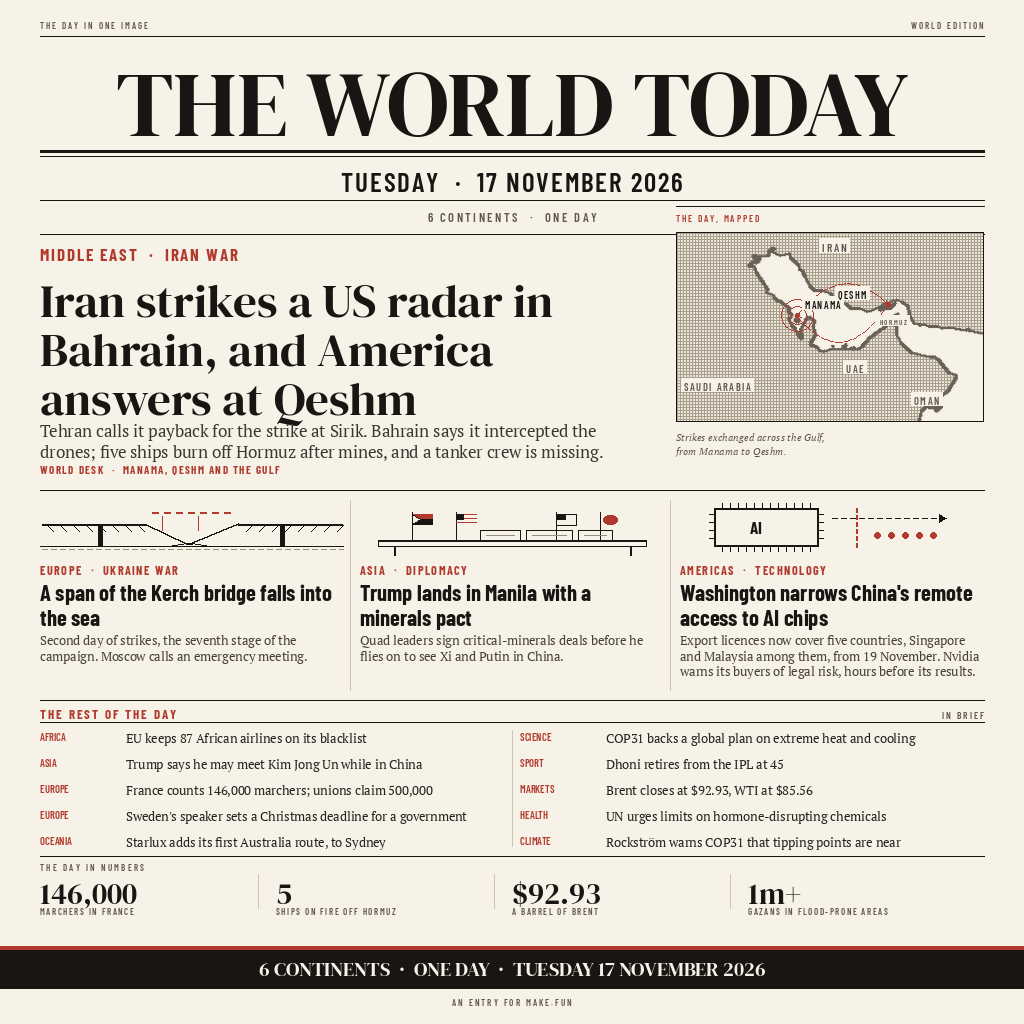
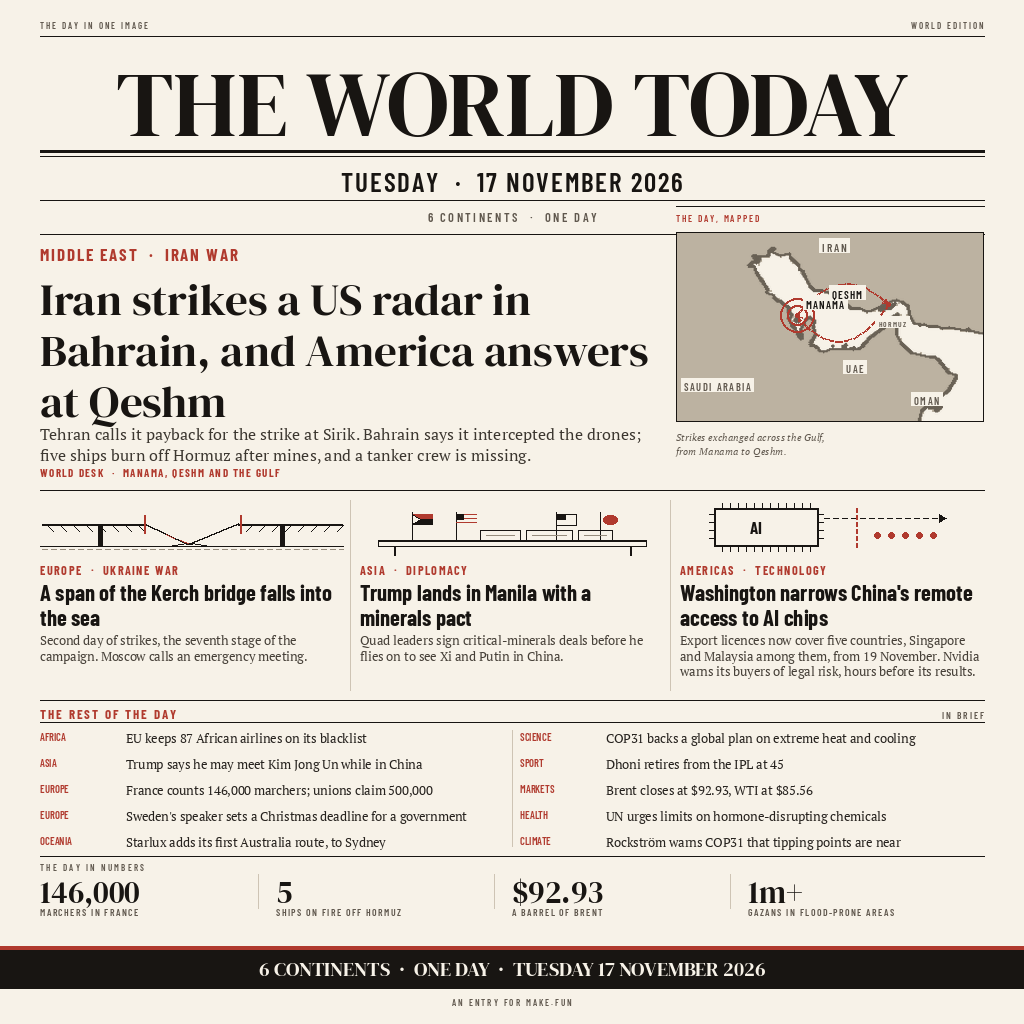
Refine leading, map tone and stat captions

diff --git a/gen.py b/gen.py
@@ -184,15 +184,15 @@ def gulf_panel(w, h):
 
     img = Image.new("RGB", (w, h), PAPER)
     img.paste((236, 229, 215), (0, 0), mask)
-    img = halftone(mask, 3, (168, 158, 142), img)
+    img = halftone(mask, 2, (188, 178, 161), img)
     img.paste(COAST, (0, 0), coast)
     d = ImageDraw.Draw(img)
     manama = project(50.58, 26.22, w, h)
     qeshm = project(55.90, 26.90, w, h)
     hormuz = project(56.45, 26.60, w, h)
 
-    for r in (9, 16):
-        d.ellipse([manama[0] - r, manama[1] - r, manama[0] + r, manama[1] + r], outline=RED)
+    for r in (10, 17):
+        d.ellipse([manama[0] - r, manama[1] - r, manama[0] + r, manama[1] + r], outline=RED, width=2)
 
     def curve(p0, p1, p2, color):
         pts = []
@@ -202,12 +202,12 @@ def gulf_panel(w, h):
             y = (1 - t) ** 2 * p0[1] + 2 * (1 - t) * t * p1[1] + t * t * p2[1]
             pts.append((x, y))
         for i in range(0, 60, 3):
-            d.line([pts[i], pts[i + 2]], fill=color)
+            d.line([pts[i], pts[i + 2]], fill=color, width=2)
         ax, ay = pts[60]
         bx, by = pts[55]
         ang = math.atan2(ay - by, ax - bx)
         for da in (2.6, -2.6):
-            d.line([(ax, ay), (ax + 5 * math.cos(ang + da), ay + 5 * math.sin(ang + da))], fill=color)
+            d.line([(ax, ay), (ax + 6 * math.cos(ang + da), ay + 6 * math.sin(ang + da))], fill=color, width=2)
 
     mid = (manama[0] + qeshm[0]) / 2.0
     curve(manama, (mid, 26), qeshm, RED)
@@ -222,9 +222,9 @@ def gulf_panel(w, h):
         d.rectangle([x - 3, y - 2, x + tw + 3, y + size + 1], fill=PAPER)
         caps(d, (x, y), txt, f, color, track)
 
-    mlabel(manama[0] + 8, manama[1] - 17, "MANAMA", 10, 1.2, INK)
-    mlabel(qeshm[0] - 50, qeshm[1] - 16, "QESHM", 10, 1.2, INK)
-    mlabel(hormuz[0] - 18, hormuz[1] + 8, "HORMUZ", 7, 1.4, MUTED)
+    mlabel(manama[0] + 9, manama[1] - 18, "MANAMA", 11, 1.1, INK)
+    mlabel(qeshm[0] - 56, qeshm[1] - 17, "QESHM", 11, 1.1, INK)
+    mlabel(hormuz[0] - 19, hormuz[1] + 9, "HORMUZ", 7.5, 1.3, MUTED)
 
     mlabel(146, 8, "IRAN", 11.5, 2.0, MUTED)
     mlabel(8, 148, "SAUDI ARABIA", 10.5, 1.5, MUTED)
@@ -261,10 +261,10 @@ def bridge():
     d.line([(146, 43), (128, sea)], fill=INK, width=1)
     d.line([(152, 43), (170, sea)], fill=INK, width=1)
 
-    for x in range(112, 196, 12):
-        d.line([(x, 12), (x + 6, 12)], fill=RED, width=2)
-    for x in (122, 158):
-        d.line([(x, 16), (x, 30)], fill=RED, width=1)
+    for x in (104, 200):
+        d.line([(x, 15), (x, 33)], fill=RED, width=2)
+    d.line([(126, 34), (134, 38)], fill=RED, width=1)
+    d.line([(140, 40), (148, 43)], fill=RED, width=1)
     return im
 
 
@@ -310,7 +310,7 @@ def chips():
         d.line([(138, y), (143, y)], fill=INK)
     d.text((70, 17), "AI", font=F(BCB, 17), fill=INK)
 
-    for x in range(152, 260, 9):
+    for x in range(144, 258, 9):
         d.line([(x, 18), (x + 5, 18)], fill=INK)
     d.polygon([(266, 18), (259, 14), (259, 22)], fill=INK)
 
@@ -398,14 +398,14 @@ def render(path):
     kf = F(BCB, 17)
     caps(d, (M, 244), LEAD_KICK, kf, RED, 1.8)
 
-    hf, hrows = fit(LEAD_HEAD, DM, 612, 47, 3)
+    hf, hrows = fit(LEAD_HEAD, DM, 612, 45, 3)
     y = 268
     for row in hrows:
         d.text((M, y), row, font=hf, fill=INK)
-        y += 49
+        y += 51
 
-    dfk = F(PSR, 16.6)
-    y = block(d, (M, y + 4), wrap(LEAD_DECK, dfk, 604), dfk, 21, (60, 55, 48))
+    dfk = F(PSR, 16.2)
+    y = block(d, (M, y + 2), wrap(LEAD_DECK, dfk, 604), dfk, 20.6, (60, 55, 48))
     caps(d, (M, y + 2), LEAD_BY, F(BCB, 11), RED, 1.4)
 
     rule(d, 676, 206, W - M, 1)
@@ -453,8 +453,8 @@ def render(path):
 
     for i, (num, lab) in enumerate(STATS):
         x = M + i * 236
-        d.text((x, 872), num, font=F(DM, 30), fill=INK)
-        caps(d, (x, 906), lab, F(BCS, 9.0), MUTED, 1.5)
+        d.text((x, 870), num, font=F(DM, 31), fill=INK)
+        caps(d, (x, 906), lab, F(BCS, 9.8), MUTED, 1.4)
         if i:
             d.line([(x - 18, 874), (x - 18, 908)], fill=HAIR)
 

diff --git a/README.md b/README.md
@@ -8,7 +8,7 @@ One day's world news as a single front page: Tuesday 17 November 2026. Iran's dr
 answering strike at Qeshm, the Kerch bridge span in the sea, Manila's minerals pact and the AI-chip
 licence list — set in ivory newsprint, ink and vermilion with a halftone locator map of the Gulf.
 
-`entry.png` is 1024×1024 and 153 KB. `main.py` only copies it; `gen.py` draws it again from the
+`entry.png` is 1024×1024 and 145 KB. `main.py` only copies it; `gen.py` draws it again from the
 committed fonts and coastline data.
 
 ## Run it
